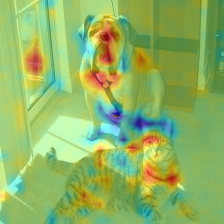
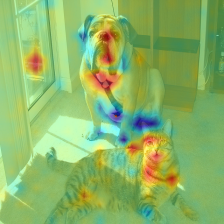
'first'

diff --git a/main.py b/main.py
@@ -28,7 +28,7 @@ def preprocess_image(img):
     return tf.Variable(preprocessed_img, trainable=False)
 
 def save(mask, img, blurred, img_name):
-    print(current_dir)
+
     mask=tf.divide(tf.subtract(mask, tf.reduce_min(mask)), tf.reduce_max(mask))
     mask=1-mask
     mask=mask[0]
@@ -40,8 +40,7 @@ def save(mask, img, blurred, img_name):
     img=np.float32(img)/255
     perturbated=np.multiply(1-mask, img)+np.multiply(mask, blurred)
     perturbated=perturbated
-    # save_path=current_dir+'\result'+'\\'+img_name+'_perturbated.png'
-    # print(save_path)
+
     cv.imwrite(current_dir+'\\result'+'\\'+img_name+'_perturbated.png', np.uint8(255*perturbated))
     cv.imwrite(current_dir+'\\result'+'\\'+img_name+'_heatmap.png', np.uint8(255*heatmap))
     cv.imwrite(current_dir+'\\result'+'\\'+img_name+'_mask.png', np.uint8(255*mask))
@@ -66,7 +65,7 @@ def explain(img_path):
     tv_beta=3
     learning_rate=0.1
     max_iterations=500
-    l1_coeff=tf.Variable(0.01)
+    l1_coeff=tf.Variable(1.)
     tv_coeff=tf.Variable(1.)
 
     model=load_model()
@@ -127,7 +126,7 @@ def explain(img_path):
 
 if __name__=='__main__':
     img_list=['bicycle', 'catdog', 'flute', 'tusker']
-    for x in img_list:
+    for x in img_list[:2]:
         img_name=x
         img_path=current_dir+'\images'+'\\'+img_name+'.png'
         explain(img_path)

diff --git a/README.md b/README.md
@@ -1,0 +1,41 @@
+# Tensorflow Interpretable Explanations of Black Boxes by Meaningful Perturbation
+
+I haven't found any Tensorflow code for the paper. So, I do it.
+
+A library built to replicate the [Pytorch-explain-black-box](https://github.com/jacobgil/pytorch-explain-black-box) library built for the [Interpretable Explanations of Black Boxes by Meaningful Perturbation by Ruth at el](https://arxiv.org/abs/1704.03296), running entirely on Tensorflow Eager Execution.
+
+All credits for the codebase go to [jacobgil](https://github.com/jacobgil) for providing an excellent base to reimplement from.
+
+I slightly modified the code.
+The loss function changed from the original
+```
+loss_fn=l1_coeff*tf.reduce_mean(tf.math.abs(1-mask))+outputs[0, category.numpy()[0]]+tv_coeff*total_grad
+```
+to
+```
+loss_fn=l1_coeff*tf.reduce_mean(tf.math.abs(1-mask))+tv_coeff*outputs[0, category.numpy()[0]]+total_grad
+```
+Moreover, I made l1_coeff and tv_coeff as trainable variables.
+So, gradients will flow on the coefficients and mask as well.
+
+# Basic Usage
+
+If you execute the following code,
+then the explanations of the image will be stored in the result folder.
+```
+explain(img_path)
+```
+
+
+
+# Reference
+If you found this library useful in your research, please consider citing
+
+```
+@article{ruth2017ICCV,
+  title={Interpretable explanations of black boxes by meaningful perturbation},
+  author={Ruth C.Fong and Andrea Vedaldi},
+  journal={Proceedings of the 2017 IEEE International Conference on Computer Vision (ICCV)},
+  year={2017}
+}
+```
